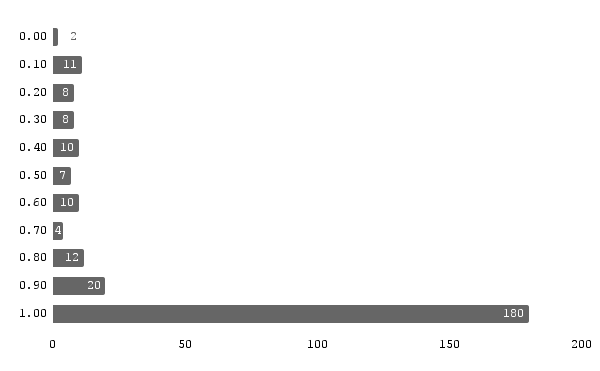
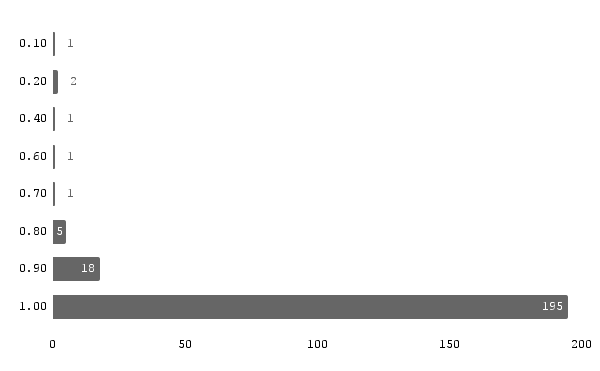
docs: update experiment results and chart in Readme.md

Changed region(s): [[0.03, 0.0593, 0.96, 0.8895]]

diff --git a/Readme.md b/Readme.md
@@ -51,14 +51,15 @@ ask-llm [OPTIONS] [PDF|BIB]...
 
 In my experiments (see `prompt-lib/` for examples), I found the following:
 
-- 90% of the papers successfully found a PDF online; of these, only 11% had certainty ≤0.8,
+- 85% of the papers successfully found a PDF online; of these, only 3% had certainty ≤0.8,
 indicating a possibly wrong PDF.
 - Gemini-2.5-pro had the following distribution of certainty (even if the PDF was wrong and only the
 metadata were used)
 ![Histogram of certainty](https://github.com/00sapo/ask-llm.py/blob/master/chart.png?raw=true)
-- Semantic Scholar retrieved 446 items, of which 39% were excluded by the gemini filter-on criteria
-- On average, 35 seconds per paper were spent on the analysis (including the time to retrieve the
+- Semantic Scholar retrieved 446 items, of which 34% were excluded by the gemini filter-on criteria
+- On average, 64 seconds per paper were spent on the analysis (including the time to retrieve the
 PDF) using a 500 Mbps connection.
+- In total, I spent ~0.75€ for the whole process.
   
 ---
 
